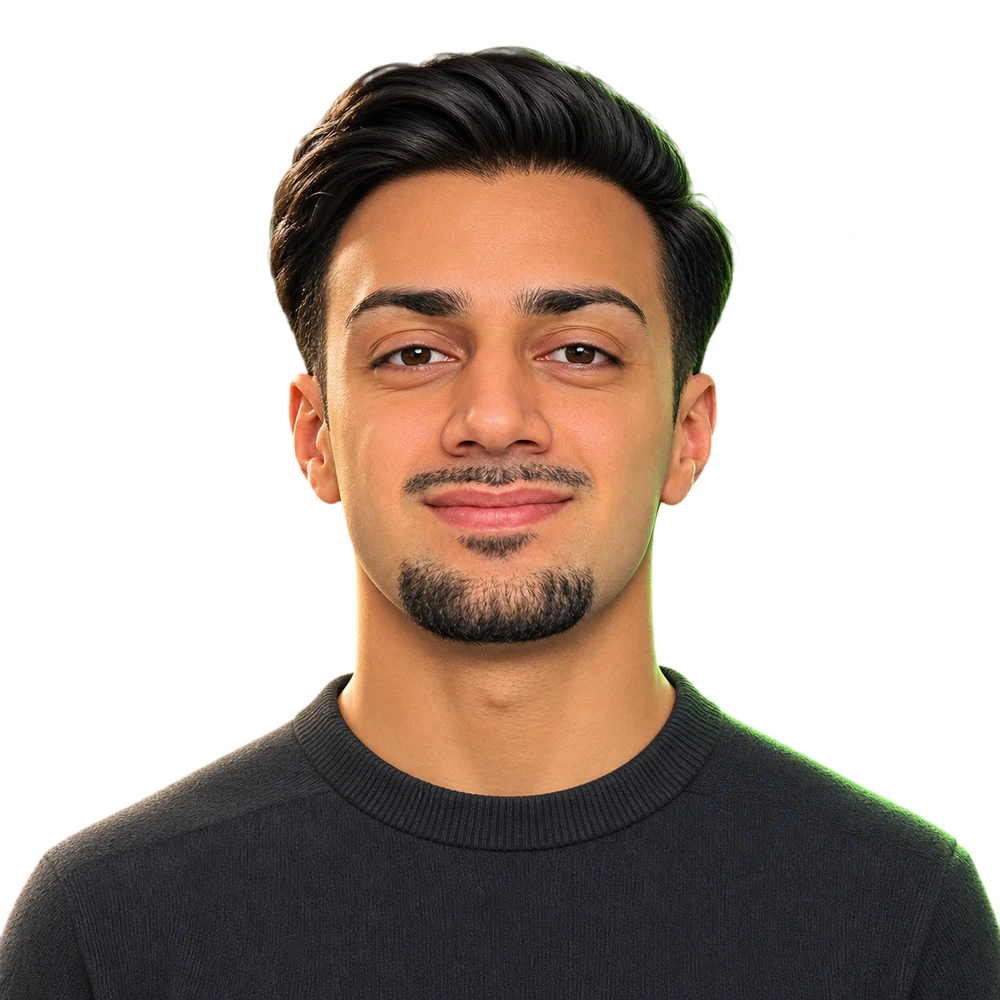
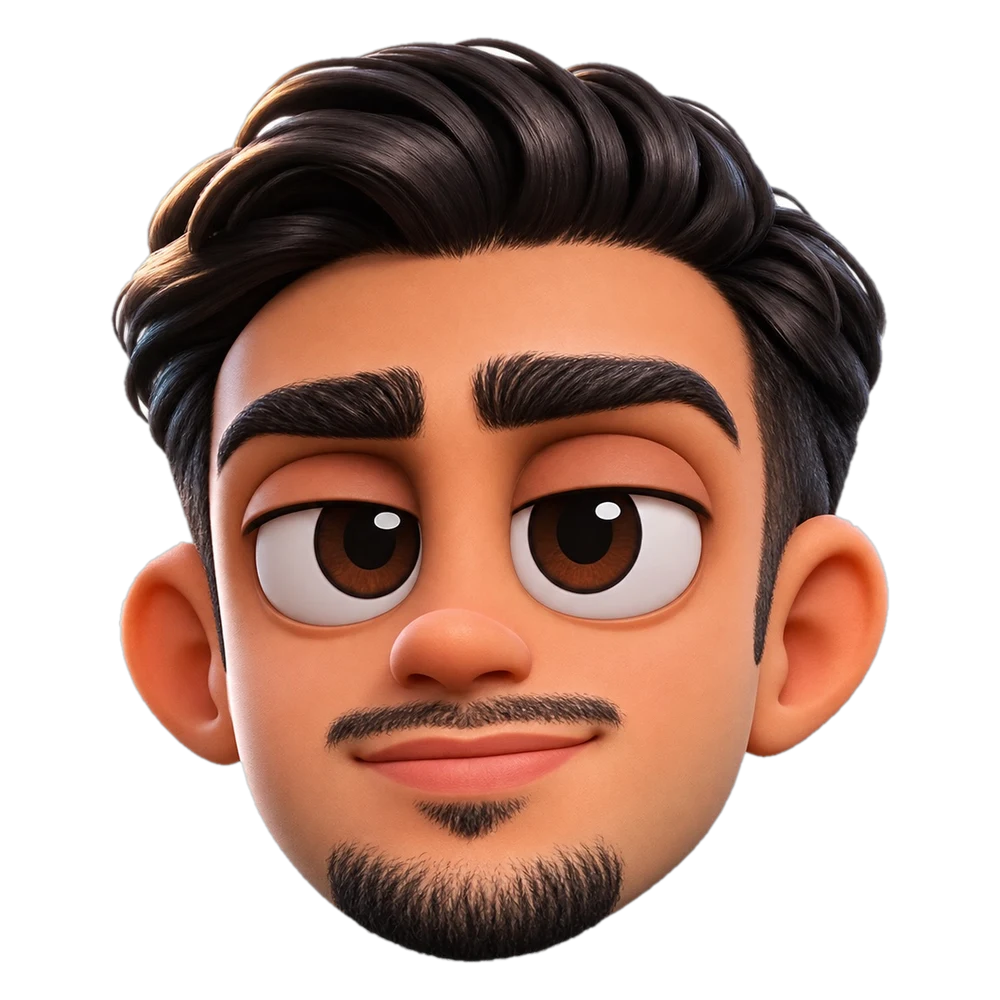
Hero: Cartoon-Kopf statt Foto, Name und Roboter liegen davor

diff --git a/index.html b/index.html
@@ -22,7 +22,7 @@
 <link rel="preconnect" href="https://fonts.googleapis.com">
 <link rel="preconnect" href="https://fonts.gstatic.com" crossorigin>
 <link href="https://fonts.googleapis.com/css2?family=Fraunces:ital,opsz,wght@0,9..144,300;0,9..144,400;0,9..144,600;1,9..144,300;1,9..144,600&family=Inter:wght@400;500;600&display=swap" rel="stylesheet">
-<link rel="stylesheet" href="assets/style.css?v=21">
+<link rel="stylesheet" href="assets/style.css?v=23">
 <link rel="stylesheet" href="assets/scenes.css?v=15">
 <script>document.documentElement.classList.add('js')</script>
 </head>
@@ -40,7 +40,7 @@
 <main id="top">
 <section class="hero wrap" aria-labelledby="name">
 <div class="shapes" aria-hidden="true"><i class="sh1"></i><i class="sh2"></i><i class="sh3"></i></div>
-<div class="avatar" aria-hidden="true"><p class="av-bubble"></p><div class="av-head"><img src="assets/img/avatar.webp" width="1000" height="1000" alt="" fetchpriority="high"><img class="fx f-blink" src="assets/img/avatar-blink.webp" width="1000" height="1000" alt="" loading="lazy"></div></div>
+<div class="avatar" aria-hidden="true"><p class="av-bubble"></p><div class="av-head"><img src="assets/img/avatar.webp?v=2" width="1000" height="1000" alt="" fetchpriority="high"></div></div>
 <h1 id="name"><span>Omar</span><span>Abdullah</span></h1>
 <div class="hair" aria-hidden="true"><canvas class="bot3d"></canvas></div>
 <div class="hero-row">
@@ -213,7 +213,7 @@
 <footer class="wrap foot"><p>© 2026 Omar Abdullah · Hamburg</p><p class="foot-links"><a href="https://github.com/omaraldulimay" target="_blank" rel="noopener">GitHub</a><a href="https://www.linkedin.com/in/om4r4bdh/" target="_blank" rel="noopener">LinkedIn</a></p></footer>
 <script src="assets/main.js?v=7"></script>
 <script src="assets/scenes.js?v=2"></script>
-<script src="assets/avatar.js?v=7"></script>
+<script src="assets/avatar.js?v=8"></script>
 <script type="importmap">{"imports":{"three":"https://cdn.jsdelivr.net/npm/three@0.160.0/build/three.module.js","three/addons/":"https://cdn.jsdelivr.net/npm/three@0.160.0/examples/jsm/"}}</script>
 <script type="module" src="assets/bot.js?v=4"></script>
 </body>

diff --git a/assets/style.css b/assets/style.css
@@ -346,10 +346,8 @@ html:not(.js) .dd:hover .dd-menu,html:not(.js) .dd:focus-within .dd-menu{display
   opacity:0;transform:translateY(calc(70px + var(--sy,0px))) scale(.92);transition:opacity 1s cubic-bezier(.2,.7,.2,1),transform 1.2s cubic-bezier(.2,.7,.2,1)}
 .avatar.in{opacity:1;transform:translateY(var(--sy,0px))}
 .av-head{position:relative;transform:translateX(var(--mx,0)) rotateX(var(--rx,0)) rotateY(var(--ry,0));transform-style:preserve-3d;
-  -webkit-mask-image:linear-gradient(#000 72%,transparent 97%);mask-image:linear-gradient(#000 72%,transparent 97%);filter:drop-shadow(0 30px 50px rgba(0,0,0,.55));animation:av-float 7s ease-in-out infinite}
+  filter:drop-shadow(0 30px 50px rgba(0,0,0,.6));animation:av-float 7s ease-in-out infinite}
 .av-head img{display:block;width:100%;height:auto}
-.av-head .fx{position:absolute;inset:0;opacity:0;transition:opacity .07s linear}
-.avatar[data-face=blink] .f-blink{opacity:1}
 @keyframes av-float{0%,100%{translate:0 0}50%{translate:0 -10px}}
 @media(max-width:759px){.avatar{position:relative;right:auto;top:auto;width:72vw;margin:0 auto -16vw}}
 .av-bubble{position:absolute;z-index:3;right:calc(100% - 4%);top:4%;white-space:nowrap;max-width:15em;margin:0;padding:12px 16px;border-radius:18px 18px 18px 4px;background:var(--text);color:var(--bg);font:500 15px/1.35 var(--sans);opacity:0;transform:translateY(8px) scale(.9);transform-origin:bottom left;transition:opacity .3s,transform .4s cubic-bezier(.2,.7,.2,1);pointer-events:none}
@@ -409,3 +407,8 @@ html:not(.js) .dd:hover .dd-menu,html:not(.js) .dd:focus-within .dd-menu{display
 /* Header verschwindet beim Runterscrollen, kommt beim Hochscrollen zurück */
 .top{transition:transform .35s cubic-bezier(.2,.7,.2,1)}
 .top.hide{transform:translateY(-100%)}
+/* Cartoon-Kopf: etwas kleiner, Name und Roboter liegen davor */
+.avatar{width:clamp(190px,30vw,440px);top:clamp(-10px,0vw,10px);right:clamp(0px,5vw,80px)}
+.hero h1{z-index:3}
+.hair{z-index:3}
+@media(max-width:759px){.avatar{width:58vw;margin:0 auto -6vw}}

diff --git a/assets/avatar.js b/assets/avatar.js
@@ -55,16 +55,6 @@
     bubble.textContent = t; bubble.classList.add('on');
     clearTimeout(hideT); hideT = setTimeout(function () { bubble.classList.remove('on'); }, ms || 3200);
   }
-  // Mimik: nur Blinzeln, danach zurück zum Grundgesicht.
-  var faceT, held = null;
-  function face(f, ms) {
-    if (still) return;
-    clearTimeout(faceT); el.dataset.face = f;
-    if (ms) faceT = setTimeout(function () { el.dataset.face = held || ''; }, ms);
-  }
-  (function blink() {
-    setTimeout(function () { if (!el.dataset.face) face('blink', 140); blink(); }, 2500 + Math.random() * 3500);
-  })();
   el.style.pointerEvents = 'auto'; el.style.cursor = 'pointer';
   el.addEventListener('click', function () {
     n = (n + 1) % lines.length; say(lines[n]);
